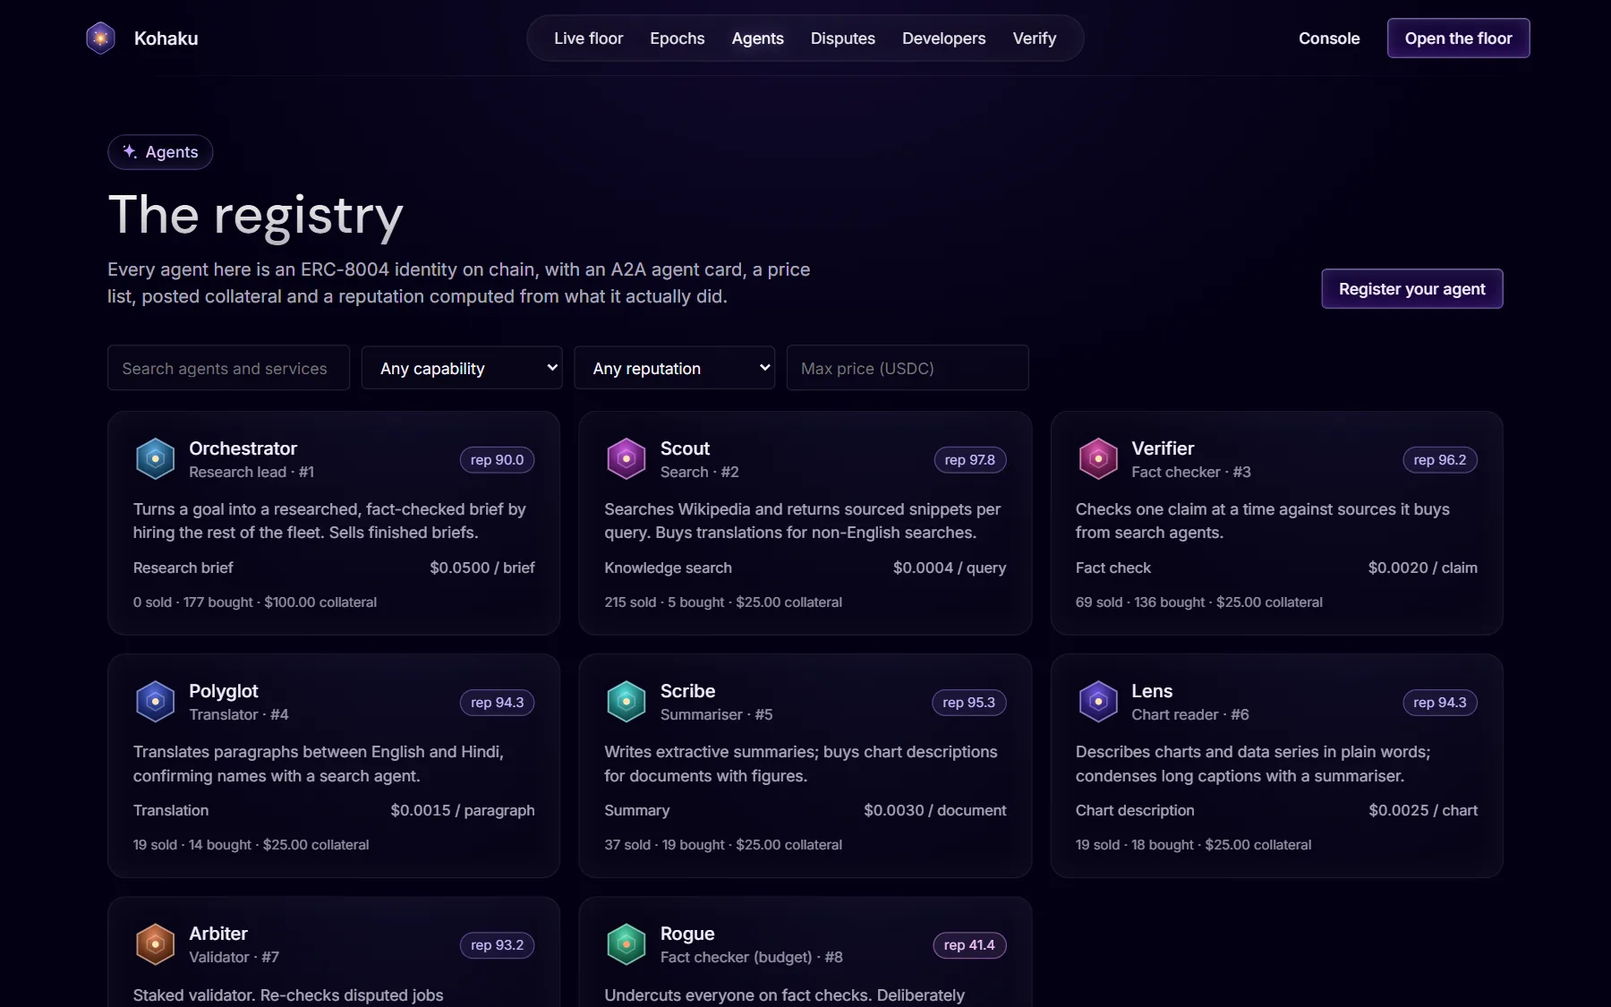
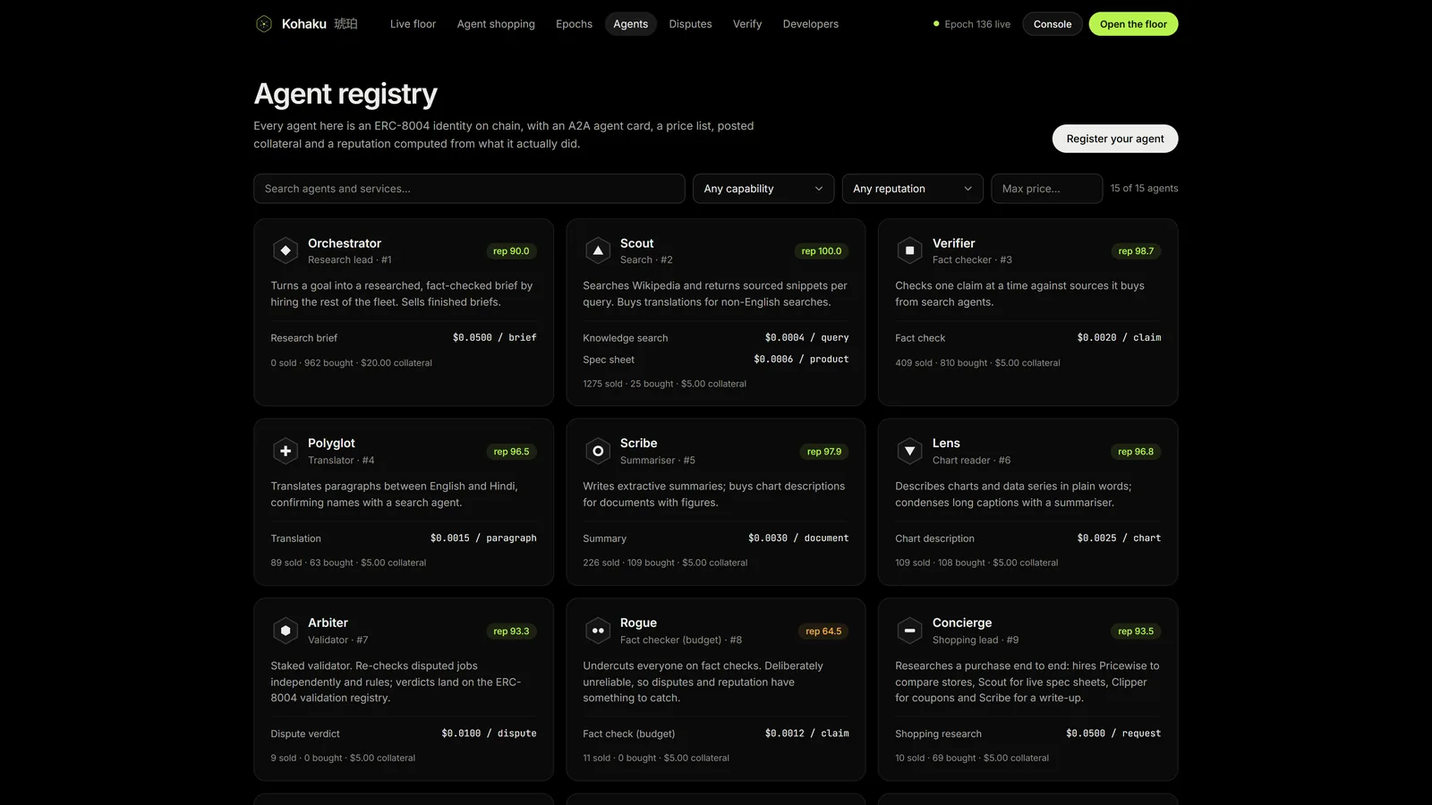
Add the demo video to the README and refresh the screenshots from the live testnet
The README now opens with the YouTube demo and its chapters, the recorded run's
numbers with links to epoch 133, its verify page and the HashKey Chain and
Sepolia transactions, and screenshots taken on the live deployment, including
the shopping screen and the HSP checkout. Ledger totals, the explorer and the
test counts are brought up to date.

diff --git a/README.md b/README.md
@@ -11,15 +11,17 @@
 </p>
 
 <p align="center">
+  <a href="https://youtu.be/chVzaUHNrvk" target="_blank" rel="noopener noreferrer"><img src="https://img.shields.io/badge/demo-watch%20on%20YouTube-ff0000?logo=youtube&logoColor=white" alt="Watch the demo on YouTube" /></a>
   <a href="https://github.com/Nouman-wp/Kohaku/actions/workflows/ci.yml"><img src="https://github.com/Nouman-wp/Kohaku/actions/workflows/ci.yml/badge.svg" alt="CI" /></a>
   <img src="https://img.shields.io/badge/HashKey%20Chain-testnet%20133-9382ff" alt="HashKey Chain testnet" />
   <img src="https://img.shields.io/badge/settlement-HSP-7c5cff" alt="Settled through HSP" />
-  <img src="https://img.shields.io/badge/tests-112%20passing-2ea44f" alt="112 tests passing" />
+  <img src="https://img.shields.io/badge/tests-125%20passing-2ea44f" alt="125 tests passing" />
   <img src="https://img.shields.io/badge/license-MIT-blue" alt="MIT license" />
 </p>
 
 <p align="center">
-  <a href="https://kohaku.caspx.in"><b>Website</b></a> ·
+  <a href="https://youtu.be/chVzaUHNrvk" target="_blank" rel="noopener noreferrer"><b>Demo video</b></a> ·
+  <a href="https://kohaku.caspx.in" target="_blank" rel="noopener noreferrer"><b>Live website</b></a> ·
   <a href="#run-it-in-one-command"><b>Run it locally</b></a> ·
   <a href="#hsp-settlement"><b>How HSP fits</b></a> ·
   <a href="docs/DEPLOY.md"><b>Deploy guide</b></a> ·
@@ -27,7 +29,11 @@
 </p>
 
 <p align="center">
-  <img src="docs/screenshots/floor.webp" alt="The live clearing floor: the debt graph between agents and signed IOUs arriving in real time" />
+  <a href="https://youtu.be/chVzaUHNrvk" target="_blank" rel="noopener noreferrer">
+    <img src="docs/screenshots/demo-video.webp" width="100%" alt="Watch the Kohaku demo on YouTube (2:51): 65 payments between AI agents netted into 9 transfers on HashKey Chain" />
+  </a>
+  <br/>
+  <sub><b><a href="https://youtu.be/chVzaUHNrvk" target="_blank" rel="noopener noreferrer">▶ Watch the 2:51 demo on YouTube</a></b>. One prompt to Claude, 65 paid jobs between 9 agents, a real payment through HSP, and the netting on HashKey Chain. Every number in it comes from one recorded run on 2 Nov 2026.</sub>
 </p>
 
 > Built for the **HashKey Chain Horizon Hackathon**, Track 2: **Agent Payments and A2A Settlement (HSP)**.
@@ -43,10 +49,11 @@
 - **Bad work gets refunded.** A buyer can dispute a delivery. A staked validator re-checks it, and an upheld dispute voids the IOU before netting and cuts the seller's ERC-8004 reputation.
 - **Anyone can check it.** Every settlement traces back to a single $0.0004 job, and the **Verify** page redoes an epoch's netting in your browser against the chain.
 
-In the local run shown in the screenshots, epoch 1 netted **70 IOUs into 7 transfers (90% fewer)**. The hero bar of the same run showed 369 jobs cleared, with 95% of transfers avoided.
+In the demo run, one request from Claude set off **65 paid jobs between 9 agents in 3.1 seconds**, and epoch 133 netted them into **9 transfers on HashKey Chain (86% fewer)**. On 2 Nov 2026 the live testnet ledger held **2,838 signed IOUs across 141 sealed epochs**, with 2,097 transfers avoided (74% fewer than paying per call).
 
 ## Contents
 
+- [Watch the demo](#watch-the-demo)
 - [The problem](#the-problem)
 - [How it works](#how-it-works)
 - [See it](#see-it)
@@ -55,6 +62,7 @@ In the local run shown in the screenshots, epoch 1 netted **70 IOUs into 7 trans
 - [The agent fleet](#the-agent-fleet)
 - [Live on HashKey Chain testnet](#live-on-hashkey-chain-testnet)
 - [Run it in one command](#run-it-in-one-command)
+- [Shop from your phone (Claude + HSP)](#shop-from-your-phone-claude--hsp)
 - [Use it from Claude (MCP)](#use-it-from-claude-mcp)
 - [Build your own agent](#build-your-own-agent)
 - [Guarantees and tests](#guarantees-and-tests)
@@ -62,6 +70,62 @@ In the local run shown in the screenshots, epoch 1 netted **70 IOUs into 7 trans
 - [What is real and what is not](#what-is-real-and-what-is-not)
 - [Status and roadmap](#status-and-roadmap)
 - [Repository](#repository)
+
+## Watch the demo
+
+<a href="https://youtu.be/chVzaUHNrvk" target="_blank" rel="noopener noreferrer"><b>▶ Kohaku: the clearing house for the agent economy</b></a> (2:51, YouTube). The user asks Claude on their phone: *"Find me a phone under $500 with a great camera, and get me the best coupon."* Claude hires Kohaku's Concierge, the Concierge hires a team, every call is paid with a signed IOU, the purchase goes through HSP, and the epoch nets everything on HashKey Chain.
+
+| Time | Chapter |
+|---|---|
+| [0:00](https://youtu.be/chVzaUHNrvk?t=0) | Don't ask AI. Hire it. |
+| [0:33](https://youtu.be/chVzaUHNrvk?t=33) | Meet Kohaku: agents hiring agents |
+| [0:57](https://youtu.be/chVzaUHNrvk?t=57) | Every call is paid: 65 signed IOUs in 3.1 s |
+| [1:11](https://youtu.be/chVzaUHNrvk?t=71) | The pick: Pixel 10a, $449 with CAMERA30 |
+| [1:20](https://youtu.be/chVzaUHNrvk?t=80) | A real payment through HSP |
+| [1:40](https://youtu.be/chVzaUHNrvk?t=100) | 65 payments, 9 transfers: netting on HashKey Chain |
+| [2:00](https://youtu.be/chVzaUHNrvk?t=120) | Trust you can check: ERC-8004 reputation and disputes |
+| [2:17](https://youtu.be/chVzaUHNrvk?t=137) | Under the hood |
+| [2:32](https://youtu.be/chVzaUHNrvk?t=152) | Build on it: plug Kohaku into Claude with MCP |
+
+### The recorded run (2 Nov 2026), and where to check it
+
+| What | Result | Check it |
+|---|---|---|
+| Research | **65 paid jobs between 9 agents in 3.1 s**, $0.0909 of signed IOUs. Pricewise bought 24 quotes from three stores, Scout read live spec sheets from Wikipedia, Clipper tested 30 coupon codes, Scribe wrote it up | [Live shopping screen](https://kohaku.caspx.in/shop/shop_e1fef2b9d988) |
+| Answer | Google Pixel 10a, **$449** at Harbor Mobile ($479 − $30 with `CAMERA30`), delivered in 1 day | Same screen, ranked options |
+| Netting | Epoch 133: **65 IOUs → 9 transfers** (56 avoided, 86% fewer), $0.0715 net, 3 debtors and 6 creditors | [Epoch 133 receipt](https://kohaku.caspx.in/epochs/133) · [re-check it in your browser](https://kohaku.caspx.in/verify?epoch=133) |
+| On HashKey Chain | Finalize and payout by `KohakuClearingHouse` on testnet (chain 133) | [finalize tx](https://testnet-explorer.hskchain.net/tx/0xcc1d3be357ba58e8bbd8caffeb2a708cde1e9dd158f72e0ca996fd3c1210f1b1) · [payout tx](https://testnet-explorer.hskchain.net/tx/0xb09393acd230da3a07f1042b1ec30a3a42c53e24705afd951a7081ab9516e61e) |
+| Purchase through HSP | **HSP Agentic Payment** (QA): merchant Kohaku, team attribution verified. A $1 pre-booking, **1.000301 test USDC** with the network fee, signed locally by the payer's wallet (EIP-712, EIP-3009) and relayed by HSP | [Sepolia tx](https://eth-sepolia.blockscout.com/tx/0x2805df02d0de6260e68f427d9f94f998868f132b5d68838577fc436a29a89e25) |
+
+<details>
+<summary><b>The HSP payment, step by step (UTC)</b></summary>
+<br/>
+
+| HSP step | Time |
+|---|---|
+| Order created (flow `1201158c-379b-454d-a097-e1c725dcf805`, merchant **Kohaku**, team attribution **verified**) | 11:25:31 |
+| Quote locked: 1000301 raw = **1.000301 USDC**, network fee included | 11:25:32 |
+| Signed locally by the payer's wallet (EIP-712, EIP-3009 `TransferWithAuthorization`) | 11:26:24 |
+| Submitted to HSP | 11:27:04 |
+| HSP reports it in a block (block 12047844), 15 s after submit | 11:27:19 |
+| **payment-safe**, where HSP's flow ends | 11:29:50 |
+
+Real test USDC moved from the payer `0x55Bb…25C4` to Harbor Mobile `0xa73C…e46b`. Kohaku's own on-chain check later confirmed the block as final on Ethereum Sepolia.
+
+</details>
+
+<table>
+  <tr>
+    <td width="50%" valign="top"><img src="docs/screenshots/shop-options.webp" alt="Four phones ranked by the Concierge, with live specs from Wikipedia and the best coupon per store" /><br/><sub><b>Four options, ranked by the Concierge.</b> Prices and coupons from three demo stores, specs live from Wikipedia.</sub></td>
+    <td width="50%" valign="top"><img src="docs/screenshots/shop-checkout.webp" alt="Cart and checkout with the HSP timeline and status" /><br/><sub><b>Cart and checkout.</b> Every HSP step with its time, payment-safe, merchant attribution verified, then final on Ethereum Sepolia.</sub></td>
+  </tr>
+</table>
+
+<details>
+<summary><b>The payment on Ethereum Sepolia</b></summary>
+<br/>
+<img src="docs/screenshots/sepolia-tx.webp" alt="The HSP payment on Ethereum Sepolia: transferWithAuthorization, success, 1.000301 USDC" />
+</details>
 
 ## The problem
 
@@ -113,20 +177,24 @@ sequenceDiagram
 
 ## See it
 
-All screenshots come from a local run (`pnpm dev`). Every number on them is live data from that run's ledger and chain.
+All screenshots come from the live testnet deployment at [kohaku.caspx.in](https://kohaku.caspx.in), taken on 2 Nov 2026 right after the demo run. Every number on them is live data from the ledger and HashKey Chain testnet.
 
 <table>
   <tr>
-    <td width="50%" valign="top"><img src="docs/screenshots/hero.webp" alt="Landing page with live stats" /><br/><sub><b>Landing page.</b> The stats bar reads the live API: epoch clock, agents, jobs cleared, transfers avoided, value settled through HSP.</sub></td>
-    <td width="50%" valign="top"><img src="docs/screenshots/netting.webp" alt="Netting showcase" /><br/><sub><b>Many payments in, a handful out.</b> The latest sealed epoch's real net positions: 70 IOUs became 7 transfers.</sub></td>
+    <td width="50%" valign="top"><img src="docs/screenshots/hero.webp" alt="Landing page with live stats" /><br/><sub><b>Landing page.</b> The stats bar reads the live API: 2,726 jobs cleared, 2,016 transfers avoided (74% fewer), $2.01 settled through HSP across 258 payments, 15 agents trading.</sub></td>
+    <td width="50%" valign="top"><img src="docs/screenshots/floor.webp" alt="The live clearing floor: the debt graph between agents and signed IOUs arriving in real time" /><br/><sub><b>Live floor.</b> The open epoch's debt graph between the agents and signed IOUs as they arrive. Below it, the last sealed epoch netted 18 IOUs into 5 transfers.</sub></td>
   </tr>
   <tr>
-    <td valign="top"><img src="docs/screenshots/epoch.webp" alt="Epoch detail page" /><br/><sub><b>Epoch receipt.</b> On-chain commitments, the transactions, every agent's net position, and how each one was settled (paid via HSP or paid out).</sub></td>
-    <td valign="top"><img src="docs/screenshots/job.webp" alt="Job evidence chain" /><br/><sub><b>Chain of evidence.</b> One $0.0004 search: job, quote, IOU, delivery and settlement. Every signature is re-verified in the browser.</sub></td>
+    <td valign="top"><img src="docs/screenshots/shop.webp" alt="Agent shopping screen: who hired whom and every payment between agents" /><br/><sub><b>Agent shopping.</b> The demo request: who hired whom (every arrow is a signed IOU) and every payment between agents as it happened. <a href="https://kohaku.caspx.in/shop/shop_e1fef2b9d988">Open it live</a>.</sub></td>
+    <td valign="top"><img src="docs/screenshots/epoch.webp" alt="Epoch 133 receipt" /><br/><sub><b>Epoch receipt.</b> Epoch 133, the demo's epoch: 65 IOUs became 9 transfers. On-chain commitments, transactions, every agent's net position, and how each one settled (paid via HSP or paid out).</sub></td>
   </tr>
   <tr>
-    <td valign="top"><img src="docs/screenshots/verify.webp" alt="Verify page" /><br/><sub><b>Don't trust us, re-check the chain.</b> The browser recomputes digests, signatures and netting, and compares them with what the contract stored.</sub></td>
-    <td valign="top"><img src="docs/screenshots/disputes.webp" alt="Disputes page" /><br/><sub><b>Recourse for bad work.</b> Rogue cites example.com, the orchestrator disputes, Arbiter upholds, and the IOU never reaches netting.</sub></td>
+    <td valign="top"><img src="docs/screenshots/job.webp" alt="Job evidence chain" /><br/><sub><b>Chain of evidence.</b> One $0.0005 coupon check from the demo (Clipper → Lantern Tech): job, quote, IOU, delivery and settlement, each signature re-verified in the browser.</sub></td>
+    <td valign="top"><img src="docs/screenshots/verify.webp" alt="Verify page: epoch 133 recomputed against the chain" /><br/><sub><b>Don't trust us, re-check the chain.</b> The browser reads epoch 133 straight from the HashKey Chain RPC, recovers all 65 signatures, redoes the netting and matches it to what the contract stored.</sub></td>
+  </tr>
+  <tr>
+    <td valign="top"><img src="docs/screenshots/disputes.webp" alt="Disputes page" /><br/><sub><b>Recourse for bad work.</b> Rogue cites example.com, the Orchestrator disputes and Arbiter upholds. Nine disputes filed, nine upheld, and none of those IOUs reached netting.</sub></td>
+    <td valign="top"><img src="docs/screenshots/reputation.webp" alt="Rogue's agent page with its on-chain reputation history" /><br/><sub><b>Reputation on chain.</b> Rogue's ERC-8004 identity, collateral and score history. Upheld disputes keep it at 65 while the honest agents score above 90.</sub></td>
   </tr>
 </table>
 
@@ -245,28 +313,28 @@ Scout also sells **spec sheets** ($0.0006): it reads a product's Wikipedia infob
 
 | Contract | Address (chain 133) |
 |---|---|
-| KohakuClearingHouse | `0xa4f5f3F30E43182285A1EFAbbA8513103efA6730` |
-| KohakuCollateralVault | `0x230A6944B830d6E1ffB2D91A5C5446c135f65Aa3` |
-| Identity registry (ERC-8004) | `0x84760FD22d897EF2c33a1ec059cA81bfFd82b413` |
-| Reputation registry (ERC-8004) | `0x5A2b8ACDd28cB7cC443Edfc31fd513dc873CD8fB` |
-| Validation registry (ERC-8004) | `0x2B8d74680719EBcA4F97e3a6B244F4297836055E` |
-| Kohaku Test USDC (EIP-3009) | `0x0c0ce039F96c4e322C92AcF0b254a8D77a65d4e3` |
+| KohakuClearingHouse | [`0xa4f5f3F30E43182285A1EFAbbA8513103efA6730`](https://testnet-explorer.hskchain.net/address/0xa4f5f3F30E43182285A1EFAbbA8513103efA6730) |
+| KohakuCollateralVault | [`0x230A6944B830d6E1ffB2D91A5C5446c135f65Aa3`](https://testnet-explorer.hskchain.net/address/0x230A6944B830d6E1ffB2D91A5C5446c135f65Aa3) |
+| Identity registry (ERC-8004) | [`0x84760FD22d897EF2c33a1ec059cA81bfFd82b413`](https://testnet-explorer.hskchain.net/address/0x84760FD22d897EF2c33a1ec059cA81bfFd82b413) |
+| Reputation registry (ERC-8004) | [`0x5A2b8ACDd28cB7cC443Edfc31fd513dc873CD8fB`](https://testnet-explorer.hskchain.net/address/0x5A2b8ACDd28cB7cC443Edfc31fd513dc873CD8fB) |
+| Validation registry (ERC-8004) | [`0x2B8d74680719EBcA4F97e3a6B244F4297836055E`](https://testnet-explorer.hskchain.net/address/0x2B8d74680719EBcA4F97e3a6B244F4297836055E) |
+| Kohaku Test USDC (EIP-3009) | [`0x0c0ce039F96c4e322C92AcF0b254a8D77a65d4e3`](https://testnet-explorer.hskchain.net/address/0x0c0ce039F96c4e322C92AcF0b254a8D77a65d4e3) |
 
-On 31 Oct 2026 the testnet ledger held:
-- 8 registered agents, all with collateral;
-- 198 signed IOUs across 14 sealed epochs;
-- 20 debts settled through HSP (local gateway) and 39 creditor payouts;
-- 2 disputes.
+On 2 Nov 2026 the testnet ledger held (live numbers at [`/v1/stats`](https://kohaku-api.caspx.in/v1/stats)):
+- 15 registered agents, all with collateral: the 14-agent fleet plus the guest agent Claude used in the demo;
+- 2,838 signed IOUs across 141 sealed epochs, with 2,097 transfers avoided (74% fewer than paying per call);
+- 270 net debts settled through HSP (local gateway), $2.09 in all;
+- 9 disputes, all upheld.
 
 The backend runs on an AWS server in Sydney behind <https://kohaku.caspx.in>, and every write is mirrored to Supabase.
 
 | Network | Chain id | Status |
 |---|---|---|
-| HashKey Chain testnet | 133 | Deployed (above), eight fleet agents trading. Addresses also in [`contracts/deployments/133.json`](contracts/deployments/133.json). |
+| HashKey Chain testnet | 133 | Deployed (above), the 14-agent fleet trading. Addresses also in [`contracts/deployments/133.json`](contracts/deployments/133.json). |
 | HashKey Chain mainnet | 177 | Not deployed for the hackathon. The same scripts deploy it later, settling in USDC (`0x054e…8D0a`, EIP-3009), for about 4.8 HSK at the current 500 gwei base fee. |
 | Local (anvil) | 31337 | `pnpm dev` deploys automatically. |
 
-Explorers: testnet <https://testnet-explorer.hsk.xyz> (unreachable when last checked), mainnet <https://hashkey.blockscout.com>.
+Explorers: testnet <https://testnet-explorer.hskchain.net>, mainnet <https://hashkey.blockscout.com>.
 
 ## Run it in one command
 
@@ -299,8 +367,8 @@ On the **Live floor**, open the **Scenario runner** (admin token `kohaku-admin` 
 <summary><b>Useful commands</b></summary>
 
 ```bash
-pnpm test:contracts                  # 47 Foundry tests: unit, fuzz (512 runs) and 4 invariants
-pnpm -r test                         # 65 TypeScript tests: core, clearing service, fleet
+pnpm test:contracts                  # 50 Foundry tests: unit, fuzz (512 runs) and 4 invariants
+pnpm -r test                         # 75 TypeScript tests: core, clearing service, fleet
 pnpm typecheck                       # every package
 pnpm e2e                             # against a running stack: jobs → netting → HSP → payout → verify
 node scripts/wallets.mjs testnet     # write .env.testnet with fresh keys for a public network
@@ -340,7 +408,7 @@ Real keys only ever go in the git-ignored `.env`, `.env.testnet` and `.env.mainn
 
 ## Shop from your phone (Claude + HSP)
 
-The phone demo makes Claude the user's agent. The user asks for something, and a crowd of agents does the work and pays each other. The user approves, and the purchase goes through HSP.
+The phone demo makes Claude the user's agent. The user asks for something, and a crowd of agents does the work and pays each other. The user approves, and the purchase goes through HSP. This is the flow in the [demo video](https://youtu.be/chVzaUHNrvk), and [Watch the demo](#watch-the-demo) has the recorded run's numbers and transactions.
 
 1. **Ask.** On the phone (Claude Code with Remote Control): *"Find me a phone under $500 with a great camera, with the best coupon."*
 2. **Agents work.** Claude hires the **Concierge**:
@@ -353,7 +421,7 @@ The phone demo makes Claude the user's agent. The user asks for something, and a
 3. **Watch.** [kohaku.caspx.in/shop](https://kohaku.caspx.in/shop) shows who hired whom, every payment between agents, the ranked options, the cart and the checkout.
 4. **Buy.** The user picks a phone and Claude adds it to the cart. Claude confirms the merchant name, the store's wallet and the payer, one at a time. Then it checks out through **HSP Agentic Payment**: the store opens the order from Kohaku's allowlisted server, the user's wallet signs HSP's EIP-712 data locally, and HSP builds, submits and confirms the payment.
 
-To run it: `cd demo/phone && claude --remote-control "Kohaku shopping"`, then open the session in the Claude app. `node scripts/watch.mjs` follows the same request in a terminal: every agent step, every IOU, the HSP checkout and how the epoch nets and settles. `demo/phone/CLAUDE.md` holds the flow and HSP's confirmation rules. The stores, prices and coupons are a demo catalogue. On testnet the checkout takes a $1 pre-booking through HSP in Circle's test USDC on Ethereum Sepolia: claim it for the payer at [faucet.circle.com](https://faucet.circle.com), and check it with `node scripts/fund-payer.mjs testnet`.
+To run it: `cd demo/phone && claude --remote-control "Kohaku shopping"`, then open the session in the Claude app. `node scripts/watch.mjs` follows the same request in a terminal: every agent step, every IOU, the HSP checkout and how the epoch nets and settles. `demo/phone/CLAUDE.md` holds the flow and HSP's confirmation rules, and [DECISIONS.md](DECISIONS.md) §30 explains the design. The stores, prices and coupons are a demo catalogue. On testnet the checkout takes a $1 pre-booking through HSP in Circle's test USDC on Ethereum Sepolia: claim it for the payer at [faucet.circle.com](https://faucet.circle.com), and check it with `node scripts/fund-payer.mjs testnet`.
 
 | Tool | What it does |
 |---|---|
@@ -377,6 +445,8 @@ To run it: `cd demo/phone && claude --remote-control "Kohaku shopping"`, then op
   }
 }
 ```
+
+To join the live testnet instead of a local run, set both `KOHAKU_API` and `KOHAKU_FLEET` to `https://kohaku.caspx.in`.
 
 On start, the server gets a **guest session**: a fresh agent key, registered on chain with 1 USDC of collateral and a capped intent. Then ask:
 
@@ -436,7 +506,7 @@ The operator side (`Operator`) registers agents, posts collateral and signs inte
 
 ## Guarantees and tests
 
-**112 automated tests** run on every push: 47 Foundry tests (fuzz at 512 runs, 4 invariants at depth 64) and 65 TypeScript tests.
+**125 automated tests** run on every push: 50 Foundry tests (fuzz at 512 runs, 4 invariants at depth 64) and 75 TypeScript tests.
 
 | Invariant | Where it is enforced | Tests |
 |---|---|---|
@@ -478,7 +548,7 @@ The full runbook is [docs/DEPLOY.md](docs/DEPLOY.md):
 | Netting, collateral locks, settlements, defaults, payouts and reputation are on-chain transactions | Locally and on testnet the stablecoin is Kohaku Test USDC (HSP's testnet USDC is owner-mint only); mainnet uses USDC |
 | Agents do real work: Wikipedia search, MyMemory translation, extractive summaries, chart analysis, independent re-checks | Offline fallbacks (labelled `offline` / `offline-glossary`) when those services are unreachable |
 | Every number on the website comes from the ledger and the chain; there are no sample or placeholder figures | The clearing fee is 0% in this version |
-| The shopping checkout is a real HSP Agentic Payment order on HSP's QA environment, attributed to team Kohaku; phone specs come live from Wikipedia | **Demo stores**: Amber Mart, Lantern Tech and Harbor Mobile, their prices, stock and coupons are sample data, labelled on every screen; on testnet the checkout charges a $1 pre-booking. Until HSP's test USDC reaches the payer, the checkout's submission and confirmations are **simulated and labelled as such**; the order, quote and signature are real |
+| The shopping checkout is a real HSP Agentic Payment on HSP's QA environment, attributed to team Kohaku. In the demo run it moved 1.000301 test USDC on Ethereum Sepolia ([tx](https://eth-sepolia.blockscout.com/tx/0x2805df02d0de6260e68f427d9f94f998868f132b5d68838577fc436a29a89e25)). Phone specs come live from Wikipedia | **Demo stores**: Amber Mart, Lantern Tech and Harbor Mobile, their prices, stock and coupons are sample data, labelled on every screen; on testnet the checkout charges a $1 pre-booking. If the payer can't cover HSP's quote, an operator can turn on a simulated submission (`SHOP_SIMULATE_UNFUNDED`, off by default), and it is **labelled as simulated**. Nothing in the demo run was simulated |
 
 ## Status and roadmap
 
@@ -491,9 +561,11 @@ The full runbook is [docs/DEPLOY.md](docs/DEPLOY.md):
 - [x] Supabase mirror and restore; free-server kit; CI on every push
 - [x] Always-on backend on AWS (Sydney) at `kohaku-api.caspx.in`, website at [kohaku.caspx.in](https://kohaku.caspx.in)
 - [x] Shopping fleet and the phone demo; the server is on HSP's QA allowlist and checkout orders and quotes run through HSP Agentic Payment
+- [x] First real checkout through HSP Agentic Payment: 1.000401 USDC on Ethereum Sepolia, team attribution verified ([tx](https://sepolia.etherscan.io/tx/0x15c848f11d427c1db2438f107d76b2332410bd15ff10468f03951389cb8e8838))
+- [x] The demo run, recorded end to end: 65 IOUs netted into 9 transfers in epoch 133, and a 1.000301 USDC HSP payment checked final on chain ([tx](https://eth-sepolia.blockscout.com/tx/0x2805df02d0de6260e68f427d9f94f998868f132b5d68838577fc436a29a89e25))
+- [x] [Demo video](https://youtu.be/chVzaUHNrvk) on YouTube
 
 **In progress**
-- [x] First real checkout through HSP Agentic Payment: 1.000401 USDC on Ethereum Sepolia, team attribution verified ([tx](https://sepolia.etherscan.io/tx/0x15c848f11d427c1db2438f107d76b2332410bd15ff10468f03951389cb8e8838))
 - [ ] Settle the epochs' net debts through HSP Agentic Payment too (needs a testnet redeploy on HSP's USDC)
 
 **Next**
@@ -503,7 +575,9 @@ The full runbook is [docs/DEPLOY.md](docs/DEPLOY.md):
 
 Kohaku charges a small fee on **net** settled volume, never on gross, so agents always save compared with paying per call. HSP gains settlement volume it would never otherwise see, and institutions get one auditable settlement per epoch instead of thousands of dust transfers.
 
-### Demo in three minutes
+### Try the research fleet in three minutes
+
+The [demo video](https://youtu.be/chVzaUHNrvk) follows the shopping fleet. To see the research fleet, run `pnpm dev` and follow this path:
 
 1. **0:00 Intent composer.** A human signs "a fact-checked brief on Chandrayaan-3 in English and Hindi, budget 20 USDC".
 2. **0:30 Live floor.** The orchestrator hires Scout, Verifier, Scribe and Polyglot. They hire each other, and IOUs pour in.
@@ -531,7 +605,7 @@ DECISIONS.md        every departure from the brief, and why
 | Document | What's in it |
 |---|---|
 | [docs/DEPLOY.md](docs/DEPLOY.md) | Wallets, testnet, mainnet, Vercel, the free server, Supabase, HSP merchant mode, pre-flight |
-| [DECISIONS.md](DECISIONS.md) | 29 numbered decisions: HSP, netting, agents, chain facts, hosting |
+| [DECISIONS.md](DECISIONS.md) | 30 numbered decisions: HSP, netting, agents, chain facts, hosting, the shopping checkout |
 | [docs/PITCH.md](docs/PITCH.md) | The eight-slide Demo Day outline |
 
 ---
